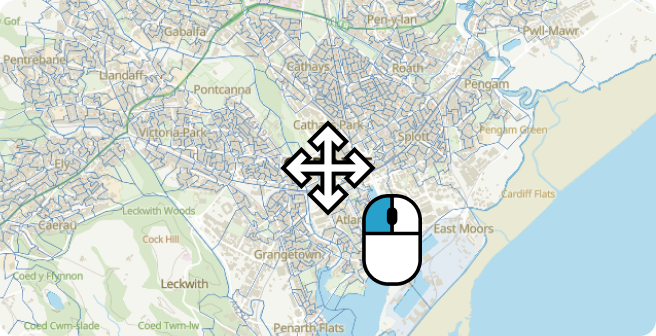
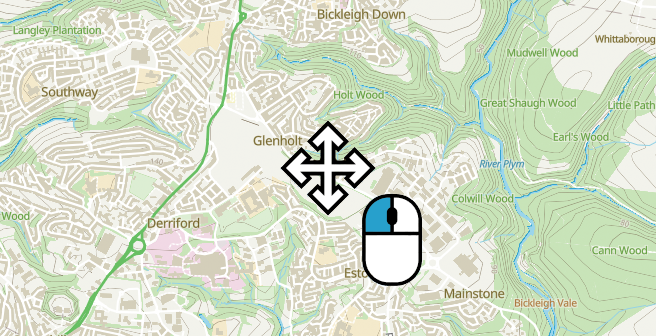
Typo, new images

diff --git a/src/routes/+page.svelte b/src/routes/+page.svelte
@@ -60,7 +60,7 @@
             <li>Search for an area in the search box.</li>
             <li>Draw a polygon on the map.</li>
             <li>Draw a circle on the map.</li>
-            <li>Upload a area boundary.</li>
+            <li>Upload an area boundary.</li>
           </ol>
           <p>Once you have finished selecting an area, click on the “Build profile” button.</p>
         </Card>